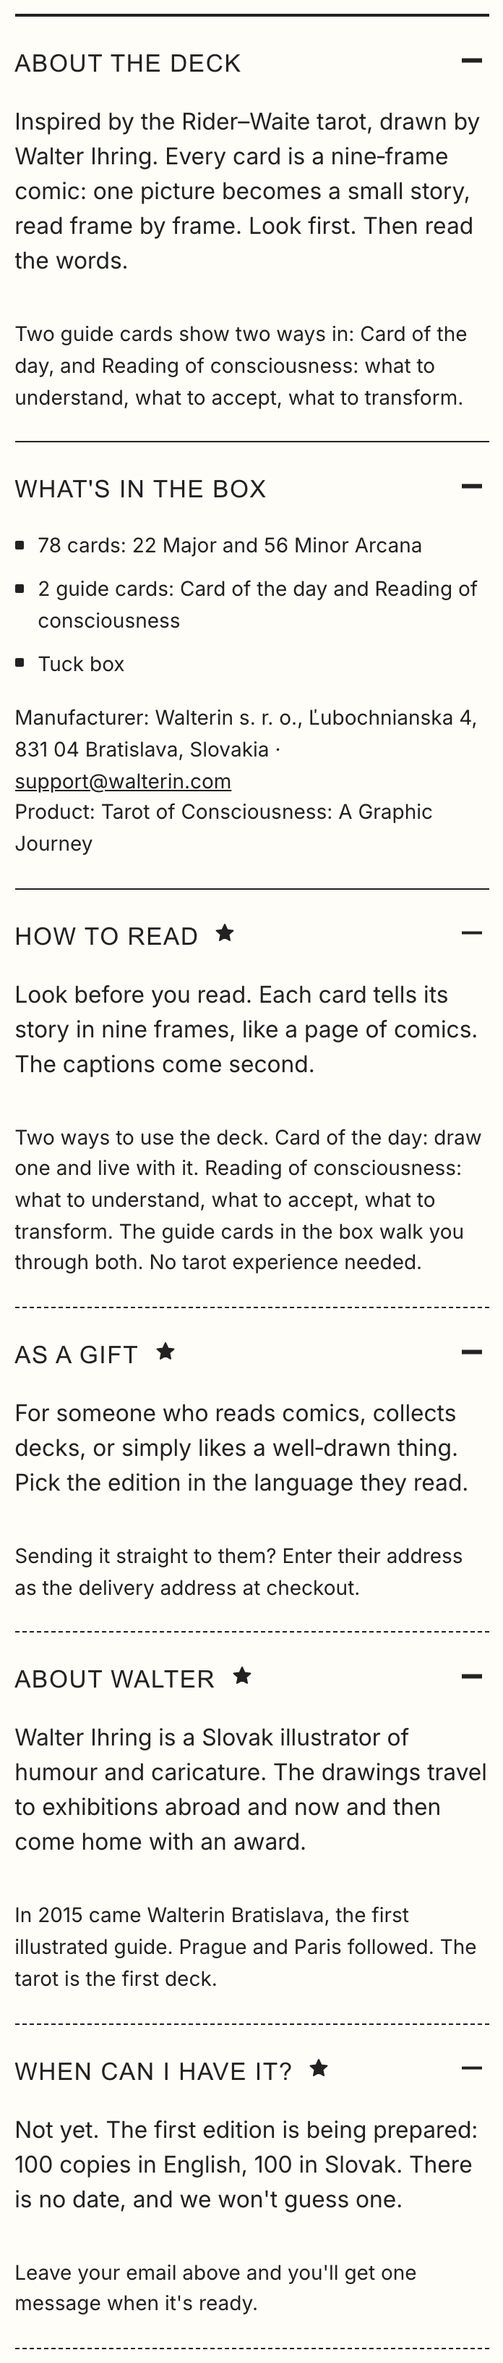
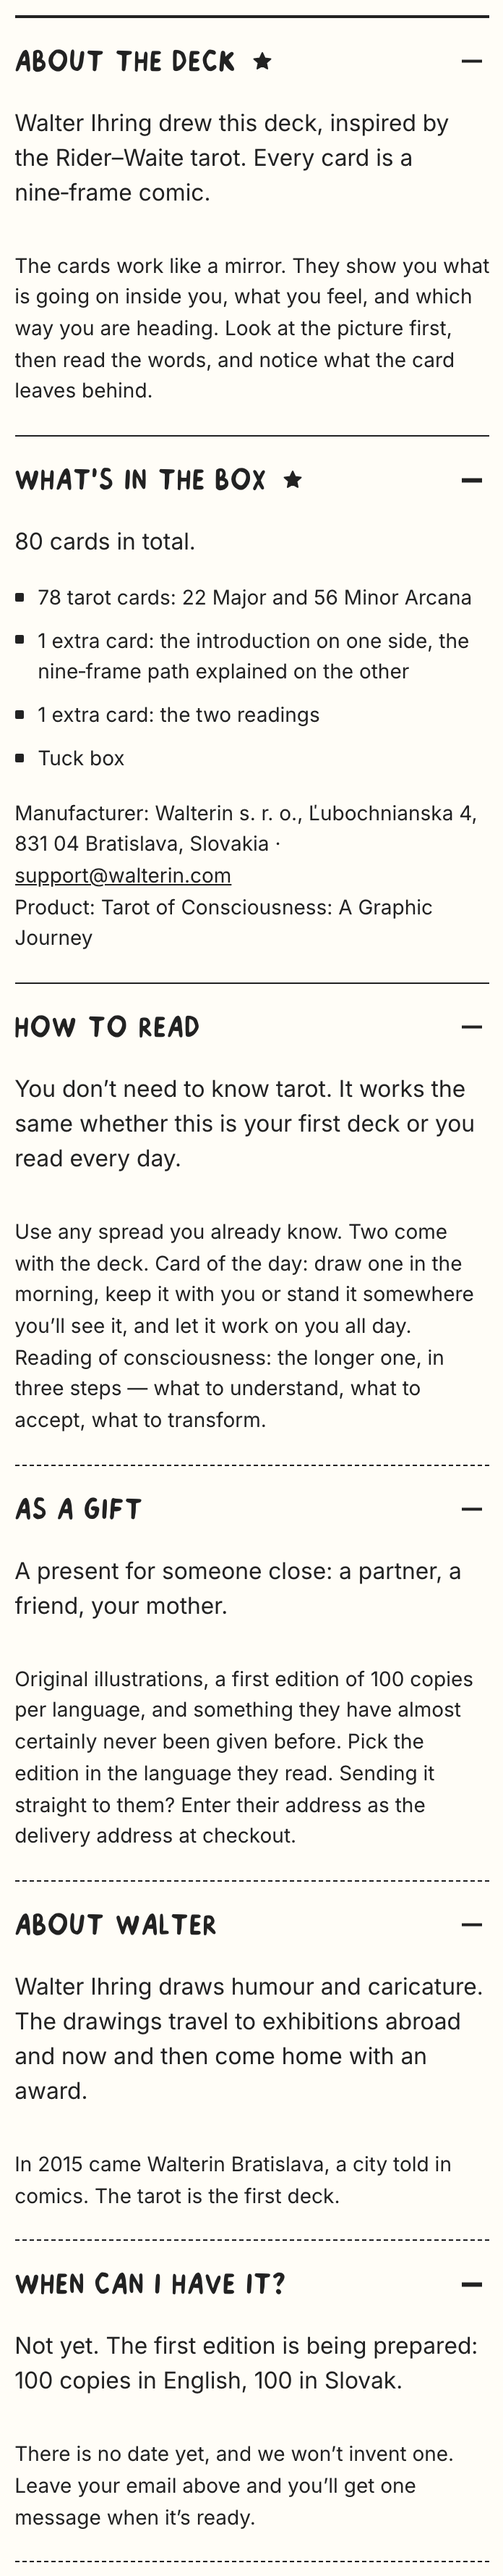
copy: rewrite four accordions in the spoken register, 80 in the box / 78 in the tarot
- About the deck: Walter Ihring is the author, inspired by Rider–Waite (no longer reads as if he
  drew Rider–Waite); the deck as a mirror, not as mechanics
- What's in the box: "80 cards in total." + a plain four-line list, "guide cards" retired
- How to read: no tarot knowledge needed, any spread you know, the two readings described
- As a gift: a present for someone close, original illustrations, first edition
- numbers: "Meet the cards" strip and its section default now say 80 · in the box; 78 stays
  wherever it means the tarot itself (SEO titles unchanged)
- ground truth and product file updated (contents, naming, copy rule, retired wording)

diff --git a/docs/products/TAROT-OF-CONSCIOUSNESS.md b/docs/products/TAROT-OF-CONSCIOUSNESS.md
@@ -20,8 +20,10 @@
 
 ## 2. What it is
 
-- 78 cards (22 Major Arcana + 56 Minor Arcana), every card a nine-frame comic.
-- 2 guide cards: "Card of the day" and "Reading of consciousness".
+- **80 cards in the box**: 78 tarot cards (22 Major + 56 Minor Arcana), every card a nine-frame comic, plus 2 extra cards.
+- Extra card 1 (double-sided): the introduction · the nine-frame path explained.
+- Extra card 2 (double-sided): the two readings, Card of the day and Reading of consciousness.
+- "Guide cards" is retired. 80 = the box, 78 = the tarot (SEO keeps 78).
 - Tuck box (Walterin logo top, Magician on the front, red back panel).
 - Illustrated by Walter Ihring. Inspired by Rider–Waite.
 - Specs (size, paper, finish, corners, box material): **TBD from Walter / printer. Never guess.**
@@ -56,56 +58,68 @@ Preview set (the only cards shown): The Magician, The Fool, The Hermit, Wheel of
 
 | Element | EN | SK |
 |---|---|---|
-| Thesis | 78 cards. One illustrator. Every card a nine-frame comic. | 78 kariet. Jeden ilustrátor. Každá karta je komiks v deviatich okienkach. |
+| Thesis (retired: the column has no thesis line) | — | — |
 | Edition note | Limited to 100 copies | Limitovaná na 100 kusov |
 | Notify note | One email when it's ready. That's all. | Jeden e-mail, keď bude hotový. Nič viac. |
 | Note under the choices 1 | First edition. 100 copies in each language. | Prvé vydanie. 100 kusov v každom jazyku. |
-| Note under the choices 2 | The captions and guide cards are in the language you pick. | Popisky a sprievodné karty sú v jazyku, ktorý si vyberiete. |
+| Note under the choices 2 | The captions and the two extra cards are in the language you pick. | Popisky a dve karty navyše sú v jazyku, ktorý si vyberiete. |
 | Newsletter checkbox | And the newsletter: what's new, what's next. | Aj newsletter: čo je nové a čo chystáme. |
 
 Short description (2–3 sentences): TBD, drafted in the house voice, approved by Veronka.
 
-### Buy-column accordions, final set and order (23 Sep 2026)
+### Buy-column accordions: final copy (approved 23 Sep 2026)
 
-Two main (solid rule), four secondary (dashed rule + a small ink star). First paragraph of each is
-the lead (Body size); everything after it is Small.
+Order: About the deck · What's in the box (both main: solid rule + ink star) · How to read · As a
+gift · About Walter · When can I have it? (secondary: dashed rule, no star; the last one only before
+launch, tied to the product state). First paragraph of each is the lead (Body size), the rest Small.
+Written to `docs/design/COPY-GUIDE.md`: spoken register, concrete, nothing repeated, Slovak native.
 
-**1. About the deck / O balíčku** — main
-EN: Inspired by the Rider–Waite tarot, drawn by Walter Ihring. Every card is a nine‑frame comic: one picture becomes a small story, read frame by frame. Look first. Then read the words.
-· Two guide cards show two ways in: Card of the day, and Reading of consciousness: what to understand, what to accept, what to transform.
-SK: Inšpirovaný tarotom Rider–Waite, nakreslil Walter Ihring. Každá karta je komiks v deviatich okienkach: z jedného obrazu je malý príbeh, ktorý sa číta okienko po okienku. Najprv sa pozerajte. Potom čítajte.
-· Dve sprievodné karty ukazujú dve cesty: Karta dňa a Čítanie vedomia: čo pochopiť, čo prijať, čo premeniť.
+**1. About the deck / O balíčku**
+EN: Walter Ihring drew this deck, inspired by the Rider–Waite tarot. Every card is a nine‑frame comic.
+· The cards work like a mirror. They show you what is going on inside you, what you feel, and which way you are heading. Look at the picture first, then read the words, and notice what the card leaves behind.
+SK: Tento balíček nakreslil Walter Ihring, inšpiroval sa tarotom Rider–Waite. Každá karta je deväťobrázkový komiks.
+· Karty fungujú ako zrkadlo. Ukážu vám, čo sa vo vás deje, čo cítite a kam smerujete. Najprv sa pozrite na obrázok, potom si prečítajte text — a všimnite si, čo vo vás karta nechá.
 
-**2. What's in the box / Čo je v krabičke** — main
-EN: 78 cards: 22 Major and 56 Minor Arcana · 2 guide cards: Card of the day and Reading of consciousness · Tuck box
-SK: 78 kariet: 22 veľkých a 56 malých arkán · 2 sprievodné karty: Karta dňa a Čítanie vedomia · Krabička
-Then the two GPSR lines (manufacturer, product), physical products only.
+**2. What's in the box / Čo je v krabičke**
+EN: 80 cards in total.
+- 78 tarot cards: 22 Major and 56 Minor Arcana
+- 1 extra card: the introduction on one side, the nine‑frame path explained on the other
+- 1 extra card: the two readings
+- Tuck box
+SK: Spolu 80 kariet.
+- 78 tarotových kariet: 22 veľkých a 56 malých arkán
+- 1 karta navyše: na jednej strane úvod, na druhej vysvetlená cesta v deviatich krokoch
+- 1 karta navyše: dve čítania
+- Krabička
+Then the two product-safety lines (manufacturer, product), physical products only.
 
-**3. How to read / Ako čítať** — secondary
-EN: Look before you read. Each card tells its story in nine frames, like a page of comics. The captions come second.
-· Two ways to use the deck. Card of the day: draw one and live with it. Reading of consciousness: what to understand, what to accept, what to transform. The guide cards in the box walk you through both. No tarot experience needed.
-SK: Najprv sa pozerajte, potom čítajte. Každá karta rozpráva svoj príbeh v deviatich okienkach, ako komiksová strana. Popisky prídu na rad až potom.
-· Balíček má dve cesty. Karta dňa: vytiahnite si jednu a nechajte ju pôsobiť. Čítanie vedomia: čo pochopiť, čo prijať, čo premeniť. Obe vysvetľujú sprievodné karty v krabičke. Skúsenosti s tarotom netreba.
+**3. How to read / Ako čítať**
+EN: You don't need to know tarot. It works the same whether this is your first deck or you read every day.
+· Use any spread you already know. Two come with the deck. Card of the day: draw one in the morning, keep it with you or stand it somewhere you'll see it, and let it work on you all day. Reading of consciousness: the longer one, in three steps — what to understand, what to accept, what to transform.
+SK: Tarot poznať nemusíte. Funguje rovnako, či je to váš prvý balíček, alebo si vykladáte každý deň.
+· Použite ktorýkoľvek výklad, ktorý poznáte. Dva sú priamo v balíčku. Karta dňa: ráno si jednu vytiahnite, noste ju pri sebe alebo si ju postavte tam, kde na ňu uvidíte, a nechajte ju cez deň pôsobiť. Čítanie vedomia: dlhší výklad v troch krokoch — čo pochopiť, čo prijať, čo premeniť.
 
-**4. As a gift / Ako darček** — secondary
-EN: For someone who reads comics, collects decks, or simply likes a well‑drawn thing. Pick the edition in the language they read.
-· Sending it straight to them? Enter their address as the delivery address at checkout.
-SK: Pre toho, kto číta komiksy, zbiera balíčky kariet alebo má jednoducho rád dobre nakreslené veci. Vyberte vydanie v jazyku, v ktorom obdarovaný číta.
-· Chcete ho poslať priamo obdarovanému? V pokladni zadajte jeho adresu ako adresu doručenia.
+**4. As a gift / Ako darček**
+EN: A present for someone close: a partner, a friend, your mother.
+· Original illustrations, a first edition of 100 copies per language, and something they have almost certainly never been given before. Pick the edition in the language they read. Sending it straight to them? Enter their address as the delivery address at checkout.
+SK: Darček pre niekoho blízkeho: pre partnera, kamarátku, mamu.
+· Pôvodné ilustrácie, prvé vydanie, 100 kusov v každom jazyku — a niečo, čo ešte takmer určite nedostal. Vyberte vydanie v jazyku, v ktorom obdarovaný číta. Chcete ho poslať priamo jemu? V pokladni zadajte jeho adresu ako adresu doručenia.
+⏸ Held back until it exists (see LAUNCH-READINESS): EN "Gift wrapping and a short message can be added at checkout." · SK "V pokladni sa dá pridať darčekové balenie a krátky odkaz."
 
-**5. About Walter / O Walterovi** — secondary
-EN: Walter Ihring is a Slovak illustrator of humour and caricature. The drawings travel to exhibitions abroad and now and then come home with an award.
-· In 2015 came Walterin Bratislava, the first illustrated guide. Prague and Paris followed. The tarot is the first deck.
-SK: Walter Ihring je slovenský ilustrátor humoru a karikatúry. Kresby cestujú na výstavy do zahraničia a občas sa vrátia s cenou.
-· V roku 2015 vyšiel prvý ilustrovaný sprievodca Walterin Bratislava. Nasledovali Praha a Paríž. Tarot je prvý balíček kariet.
+**5. About Walter / O Walterovi**
+EN: Walter Ihring draws humour and caricature. The drawings travel to exhibitions abroad and now and then come home with an award.
+· In 2015 came Walterin Bratislava, a city told in comics. The tarot is the first deck.
+SK: Walter Ihring kreslí humor a karikatúru. Kresby cestujú na výstavy do zahraničia a občas sa vrátia s cenou.
+· V roku 2015 vyšiel Walterin Bratislava, mesto rozprávané komiksom. Tarot je prvý balíček kariet.
+(No Prague or Paris: neither is out yet.)
 
-**6. When can I have it? / Kedy ho dostanem?** — secondary, before launch only
-EN: Not yet. The first edition is being prepared: 100 copies in English, 100 in Slovak. There is no date, and we won't guess one.
-· Leave your email above and you'll get one message when it's ready.
-SK: Zatiaľ nie. Pripravujeme prvé vydanie: 100 kusov v angličtine a 100 v slovenčine. Dátum ešte nemáme a hádať ho nebudeme.
-· Nechajte nám e-mail vyššie a keď bude hotový, pošleme vám jednu správu.
+**6. When can I have it? / Kedy ho dostanem?** — before launch only
+EN: Not yet. The first edition is being prepared: 100 copies in English, 100 in Slovak.
+· There is no date yet, and we won't invent one. Leave your email above and you'll get one message when it's ready.
+SK: Zatiaľ nie. Pripravujeme prvé vydanie: 100 kusov v angličtine a 100 v slovenčine.
+· Dátum ešte nemáme a vymýšľať si ho nebudeme. Nechajte nám e-mail vyššie a keď bude hotový, pošleme vám jednu správu.
 
-Deleted: "Why nine frames", "English or Slovak?" (the line under the language choice says it).
+Retired: "Why nine frames", "English or Slovak?", and the word "guide cards".
 SK accordion text is a store write through Translate & Adapt, after Veronka's OK.
 
 ## 7. Legal specifics
@@ -122,7 +136,7 @@ SK accordion text is a store write through Translate & Adapt, after Veronka's OK
 
 ## 9. Images needed
 
-Box straight-on on flat colour · box open with cards fanned · macro of ink line · three-card spread · cards in hand (scale) · guide cards · EN and SK editions side by side.
+Box straight-on on flat colour · box open with cards fanned · macro of ink line · three-card spread · cards in hand (scale) · the two extra cards (both sides) · EN and SK editions side by side.
 
 ## 10. Open questions
 

diff --git a/docs/WALTERIN-GROUND-TRUTH.md b/docs/WALTERIN-GROUND-TRUTH.md
@@ -48,7 +48,10 @@
 ## 3. Product: Tarot of Consciousness: A Graphic Journey
 
 - Name: EN **Tarot of Consciousness: A Graphic Journey**, SK **Komiksový tarot vedomia** (short: Tarot of Consciousness / Tarot vedomia). Old name "Comics Tarot of Consciousness" retired on the website (tuck box still says COMICS TAROT, TO CONFIRM). Handle `tarot`.
-- 78 cards (22 Major + 56 Minor Arcana), 2 guide cards, tuck box.
+- **80 cards in the box**: 78 tarot cards (22 Major + 56 Minor Arcana) + **2 extra cards**, and a tuck box.
+  Extra card 1 (double-sided): the introduction on one side, the nine-frame path explained on the other.
+  Extra card 2 (double-sided): the two readings.
+  ⚠ "Guide cards" is retired: say what the cards actually are. **80** = what's in the box, **78** = the tarot itself (SEO titles keep 78).
 - Price: €39, always taken from the product, never hardcoded.
 - Editions = variants of the option "Language/Jazyk": **English** and **Slovak**.
 - **First edition: 100 copies in English + 100 in Slovak.** Never "150".
@@ -57,7 +60,7 @@
 - Before launch: notify-me form. Tags `tarot-waitlist`, `tarot-waitlist-en` / `tarot-waitlist-sk`. **One optional newsletter checkbox** (Veronka, 22 Sep 2026), unticked by default; the tag `newsletter` is added only when it is ticked.
 - Pre-order vs notify-me: undecided (Veronka + Walter).
 - **Never show the full deck.** Only the 12-card preview set: The Magician, The Fool, The Hermit, Wheel of Fortune, The Star, The Sun, Two of Wands, Knight of Wands, Six of Cups, Seven of Swords, Two of Pentacles, Seven of Pentacles.
-- **Naming:** only "nine-frame comic" or "nine-frame path". Never "9-layer system" or "9-frame system".
+- **Naming:** EN only "nine-frame comic" or "nine-frame path"; SK "deväťobrázkový komiks" and "cesta v deviatich krokoch". Never "9-layer system", "9-frame system" or "nine-frame system".
 - **Reading systems:** "Card of the day" and "Reading of consciousness" (what to understand / accept / transform). The nine-frame path is the guide inside every card.
 - Specs (size, paper, finish, corners, box): TBD, from Walter or the printer. Never guess.
 - Reviews: hidden until real, verified reviews exist. Judge.me uninstalled; review tool TBD.
@@ -130,6 +133,11 @@ Measured **optically** (from visible letters to the next border, from a shadow's
 ---
 
 ## 7. Voice
+
+**Standing rule (23 Sep 2026), every language, every surface:** write the way a person speaks; no
+metaphors for their own sake; concrete before abstract; nothing repeats between sections; Slovak is
+written natively, never translated; read it aloud before showing it. Full version:
+`docs/design/COPY-GUIDE.md`.
 
 Dry, warm, short factual sentences, British spelling. Literary, never generic. No mystical, self-help or therapy language. No "elevate", "must-have", "reach your full potential". The audience is intelligent and well-read. Don't simplify. Tease, don't spoil.
 
